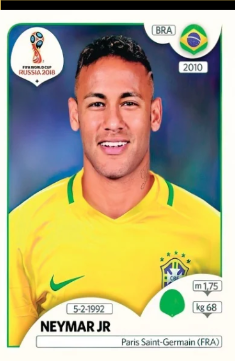
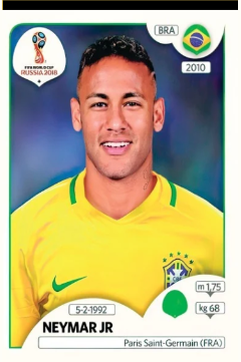
Timeline cards show each sticker at its true size, no cropping or padding
Claude-Session: https://claude.ai/code/session_012KLzXvbSNPDSfqsEgnNbVN

diff --git a/index.html b/index.html
@@ -877,7 +877,7 @@
         <button onclick="openCardModal(${index})" class="group p-4 rounded-2xl bg-[#121212] border border-[#262218] hover:border-[#D4AF37] text-left transition-all flex flex-col justify-between">
           <div>
             <div class="flex items-center justify-between text-[11px] font-bold text-[#D4AF37] mb-2"><span>${card.year}</span><span>${card.jerseyNo}</span></div>
-            ${card.image ? `<img src="${esc(asset(card.image))}" alt="${card.tournament} card" loading="lazy" class="w-full aspect-[3/4] object-cover rounded-lg border border-[#262218] mb-3"/>` : ''}
+            ${card.image ? `<img src="${esc(asset(card.image))}" alt="${card.tournament} card" loading="lazy" class="block w-full h-auto rounded-lg mb-3"/>` : ''}
             <h3 class="font-serif text-sm font-bold text-[#F5F5F5] group-hover:text-[#F3E5AB] mb-1">${card.tournament}</h3>
             <span class="inline-block text-[10px] px-2 py-0.5 rounded bg-[#181818] border border-[#262218] text-[#A3A3A3] mb-3">${card.badge}</span>
           </div>
